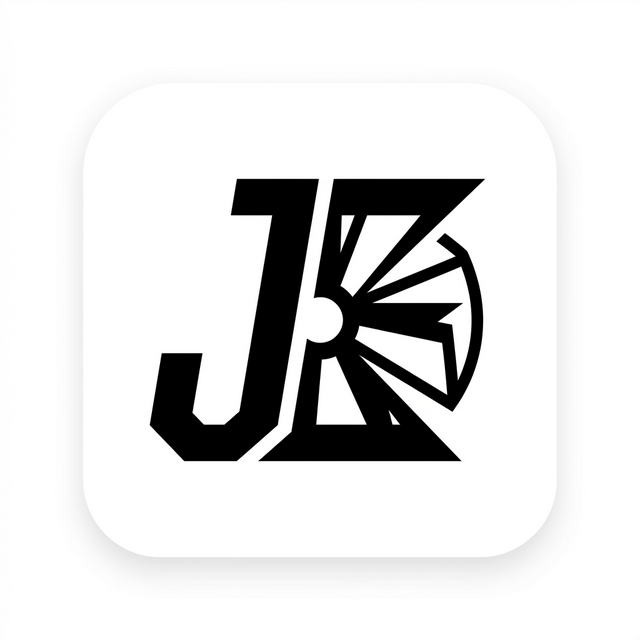
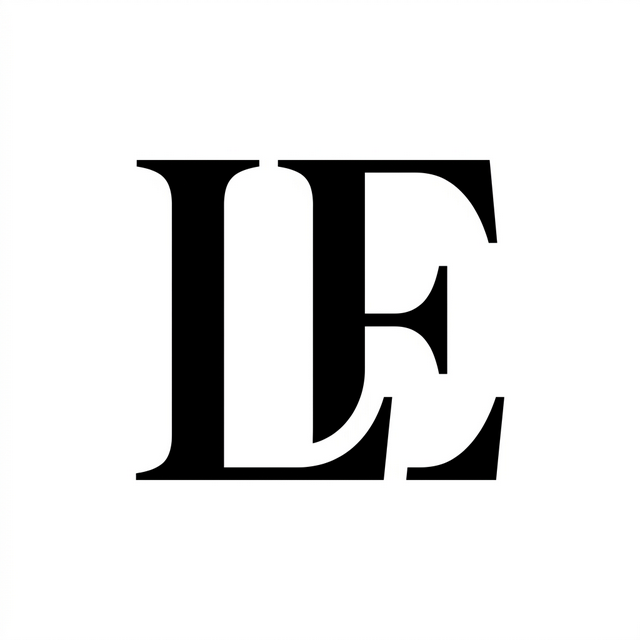
feat: Full Rebranding to LARSEN EVANS PROJECTS
- Universal text replacement: JetEngine -> LARSEN EVANS.
- Generated and applied new thematic LARSEN EVANS assets (icons/manifest).
- Updated root metadata and PWA manifest for new identity.
- Refined AI synthesis prompts and operational labels to LARSEN architecture.
- Final production sync for LARSEN EVANS PROJECTS.

diff --git a/src/app/enterprise/EnterpriseClient.tsx b/src/app/enterprise/EnterpriseClient.tsx
@@ -16,7 +16,7 @@ export default function EnterpriseClient() {
 
   const itemVariants = {
     hidden: { opacity: 0, y: 20 },
-    visible: { opacity: 1, y: 0, transition: { duration: 0.5, ease: "easeOut" } }
+    visible: { opacity: 1, y: 0, transition: { duration: 0.5, ease: "easeOut" as any } }
   };
 
   return (
@@ -29,8 +29,8 @@ export default function EnterpriseClient() {
           className="mb-20 border-b-2 border-black pb-16"
         >
           <div className="flex items-center gap-3 mb-8">
-            <span className="label-system px-3 py-1 bg-black text-white text-[9px]">GLOBAL ENTERPRISE v4.0</span>
-            <span className="label-system text-silver text-[9px]">INTEL-SYNTHESIS ACTIVE</span>
+            <span className="label-system px-3 py-1 bg-black text-white text-[9px]">LARSEN ENTERPRISE v5.0</span>
+            <span className="label-system text-silver text-[9px]">PROPRIETARY ARCHITECTURE ACTIVE</span>
           </div>
           <h1 className="text-8xl font-black tracking-tighter leading-[0.8] mb-10 text-gradient">
             SCALE <br /> BEYOND.
@@ -53,7 +53,7 @@ export default function EnterpriseClient() {
               {[
                 { 
                   title: 'AI STRATEGY', 
-                  desc: 'End-to-end automation strategies using Gemini Pro architecture.',
+                  desc: 'End-to-end automation strategies using LARSEN-SYNTH architecture.',
                   icon: <Zap className="w-6 h-6" />
                 },
                 { 

diff --git a/src/app/ProjectsClient.tsx b/src/app/ProjectsClient.tsx
@@ -22,11 +22,11 @@ export default function ProjectsClient({ initialProjects }: ProjectsClientProps)
   const categories = ['ALL', ...Array.from(new Set(initialProjects.map(p => p.project_category).filter(Boolean)))];
 
   const tickers = [
-    'GEMINI_PRO_SYNAPSE_CONNECTED',
-    'BUFFER_STREAM_STABLE_v4.2',
-    'SECTOR_ANALYSIS_COMPLETE',
-    'DATA_SEQUENCES_OPTIMIZED',
-    'NEURAL_FILTER_v1.0.4_ACTIVE'
+    'LARSEN_EVANS_CORE_CONNECTED',
+    'SYNAPSE_STREAM_v4.5_ACTIVE',
+    'ELITE_SECTOR_ANALYSIS',
+    'PROPRIETARY_DATA_LOCK',
+    'NEURAL_FILTER_LE_v1.0'
   ];
 
   useEffect(() => {
@@ -132,7 +132,7 @@ export default function ProjectsClient({ initialProjects }: ProjectsClientProps)
                 </h2>
                 <div className="flex items-center gap-4 text-[9px] font-black text-silver">
                    <span className="flex items-center gap-1"><Server className="w-3 h-3" /> BUFFER_ID: 8829-X</span>
-                   <span className="flex items-center gap-1"><Cpu className="w-3 h-3" /> ENGINE: GEMINI_1.5</span>
+                   <span className="flex items-center gap-1"><Cpu className="w-3 h-3" /> ENGINE: LARSEN_SYNTH_PRO</span>
                 </div>
               </div>
               <div className="text-right">

diff --git a/src/app/content-generator/page.tsx b/src/app/content-generator/page.tsx
@@ -56,13 +56,13 @@ export default function ContentGeneratorPage() {
           className="mb-16"
         >
           <div className="flex items-center gap-2 mb-6">
-            <span className="label-system text-primary-600 px-3 py-1 bg-primary-600/10 rounded-full">AI CONTENT ENGINE v4.2</span>
+            <span className="label-system text-primary-600 px-3 py-1 bg-primary-600/10 rounded-full">LARSEN EVANS SYNTHESIS v5.0</span>
           </div>
           <h1 className="text-7xl font-black tracking-tighter leading-[0.85] mb-8 text-gradient">
             CONTENT <br /> GENERATOR.
           </h1>
           <p className="text-xl font-medium text-charcoal max-w-2xl uppercase tracking-tighter leading-snug">
-            Professional marketing output for high-end projects, synthesized by Gemini Pro architecture.
+            Elite marketing output for global projects, synthesized by proprietary LARSEN architecture.
           </p>
         </motion.div>
 

diff --git a/src/components/layout/AppLayout.tsx b/src/components/layout/AppLayout.tsx
@@ -25,7 +25,7 @@ export const AppLayout: React.FC<{ children: React.ReactNode }> = ({ children })
               <Activity className="w-4 h-4" />
             </div>
             <span className="text-lg md:text-xl font-black tracking-tighter leading-none">
-              JETENGINE<span className="text-primary-600">.</span>
+              LARSEN EVANS<span className="text-primary-600">.</span>
             </span>
           </Link>
 

diff --git a/src/app/layout.tsx b/src/app/layout.tsx
@@ -14,8 +14,8 @@ const geistMono = Geist_Mono({
 });
 
 export const metadata: Metadata = {
-  title: "JetEngine CCT PWA",
-  description: "Premium Showcase of PWA Projects and AI Solutions",
+  title: "LARSEN EVANS PROJECTS",
+  description: "Elite Showcase of Premium PWA and AI Solutions by LARSEN EVANS",
   manifest: "/manifest.json",
   icons: {
     icon: "/favicon.png",

diff --git a/src/components/molecules/AILoadingOverlay.tsx b/src/components/molecules/AILoadingOverlay.tsx
@@ -118,7 +118,7 @@ export const AILoadingOverlay: React.FC<AILoadingOverlayProps> = ({ isVisible, o
           </div>
 
           <div className="absolute bottom-12 label-system text-[8px] opacity-30">
-            SECURE_CHANNEL_ACTIVE // PORT_3000 // JETENGINE_CORE
+            SECURE_CHANNEL_ACTIVE // PORT_3000 // LARSEN_CORE
           </div>
         </div>
       )}
